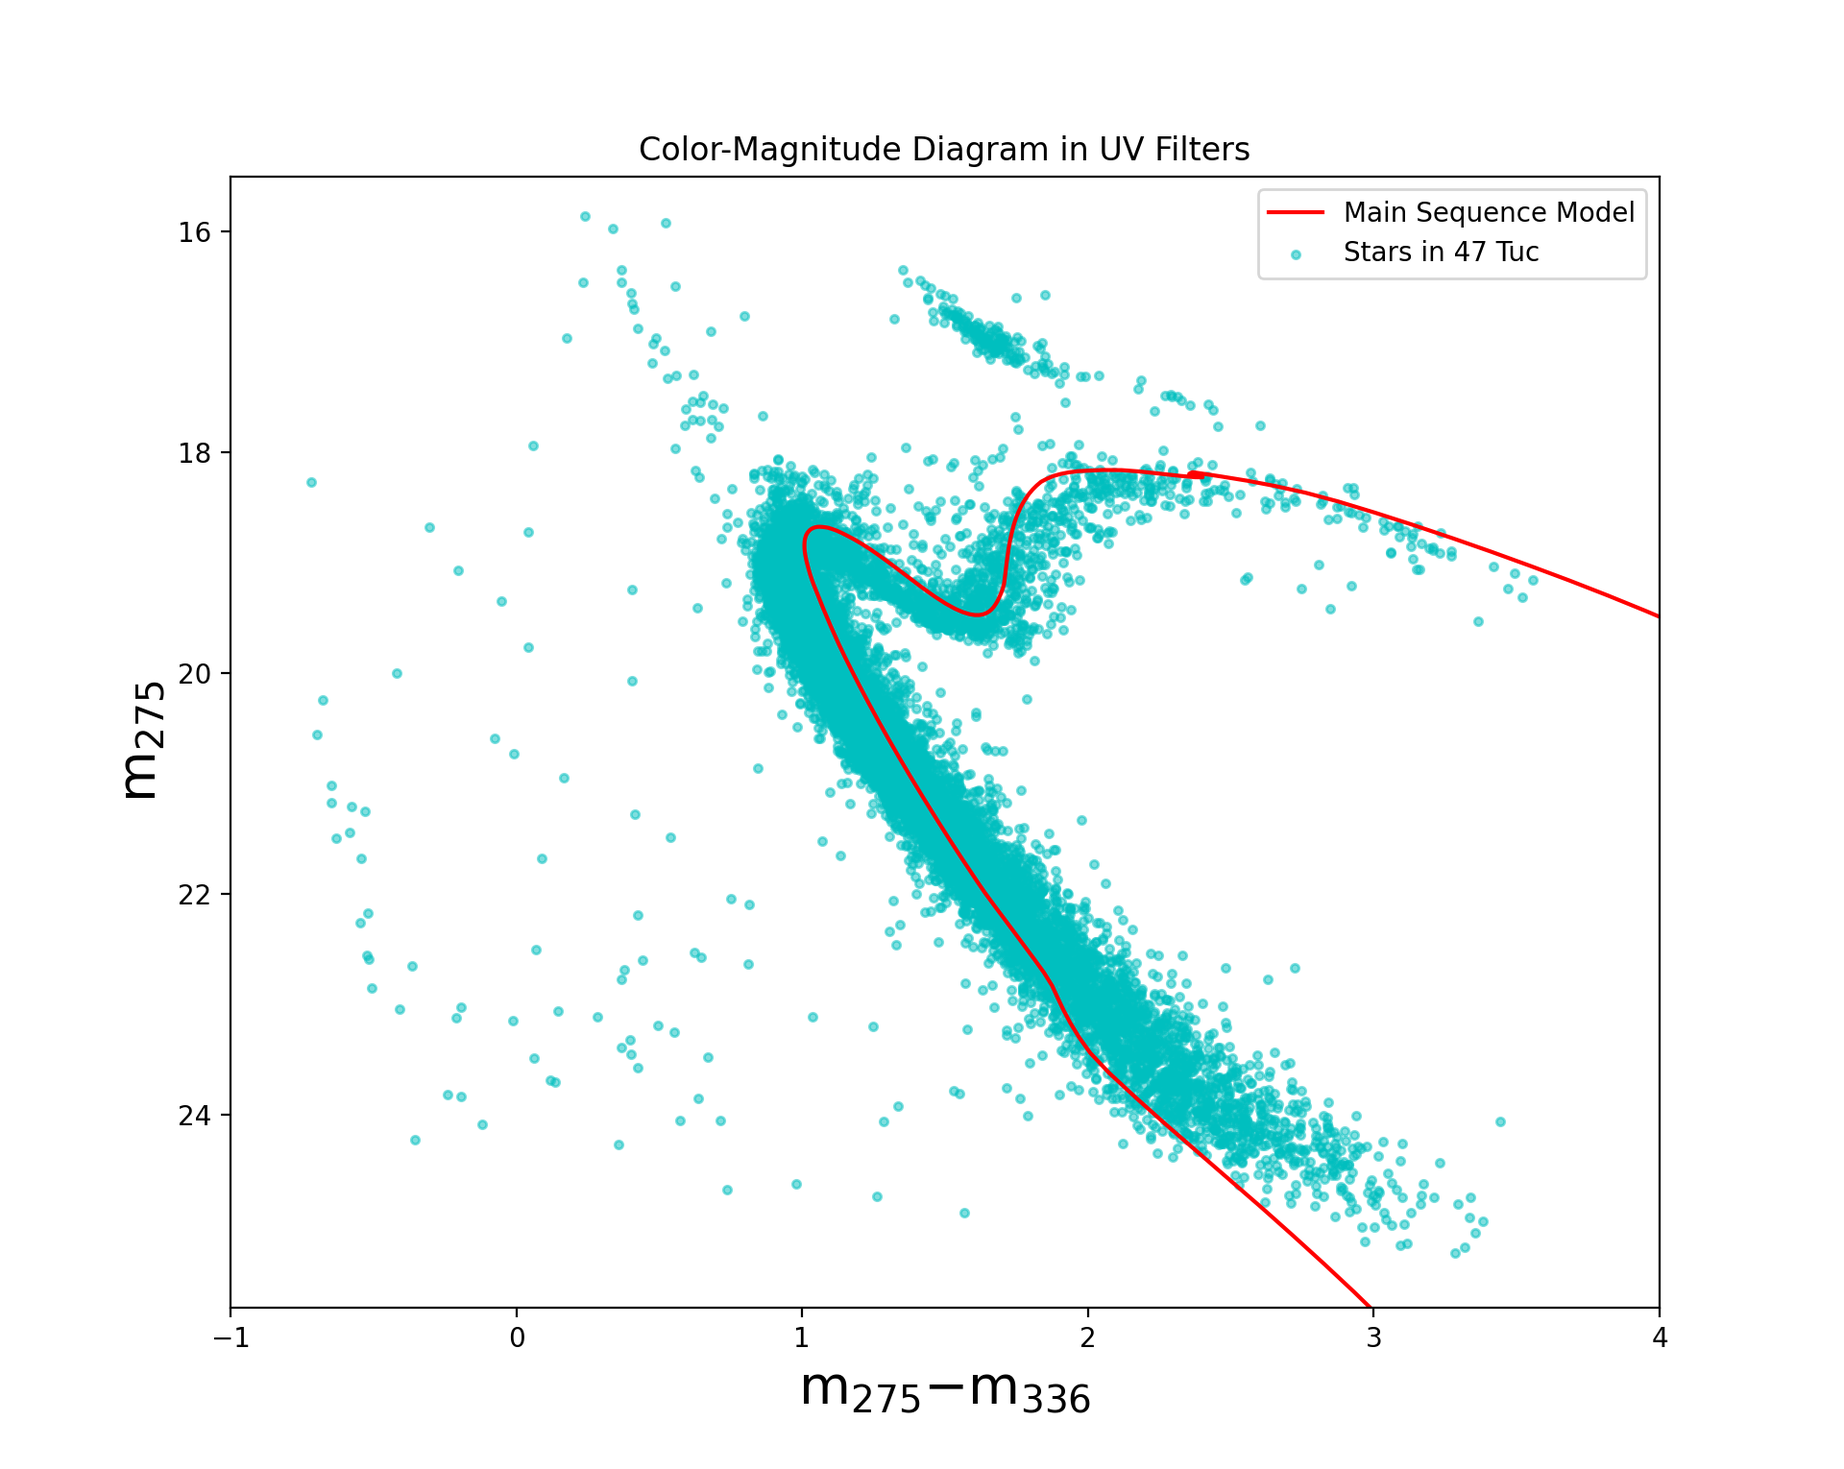
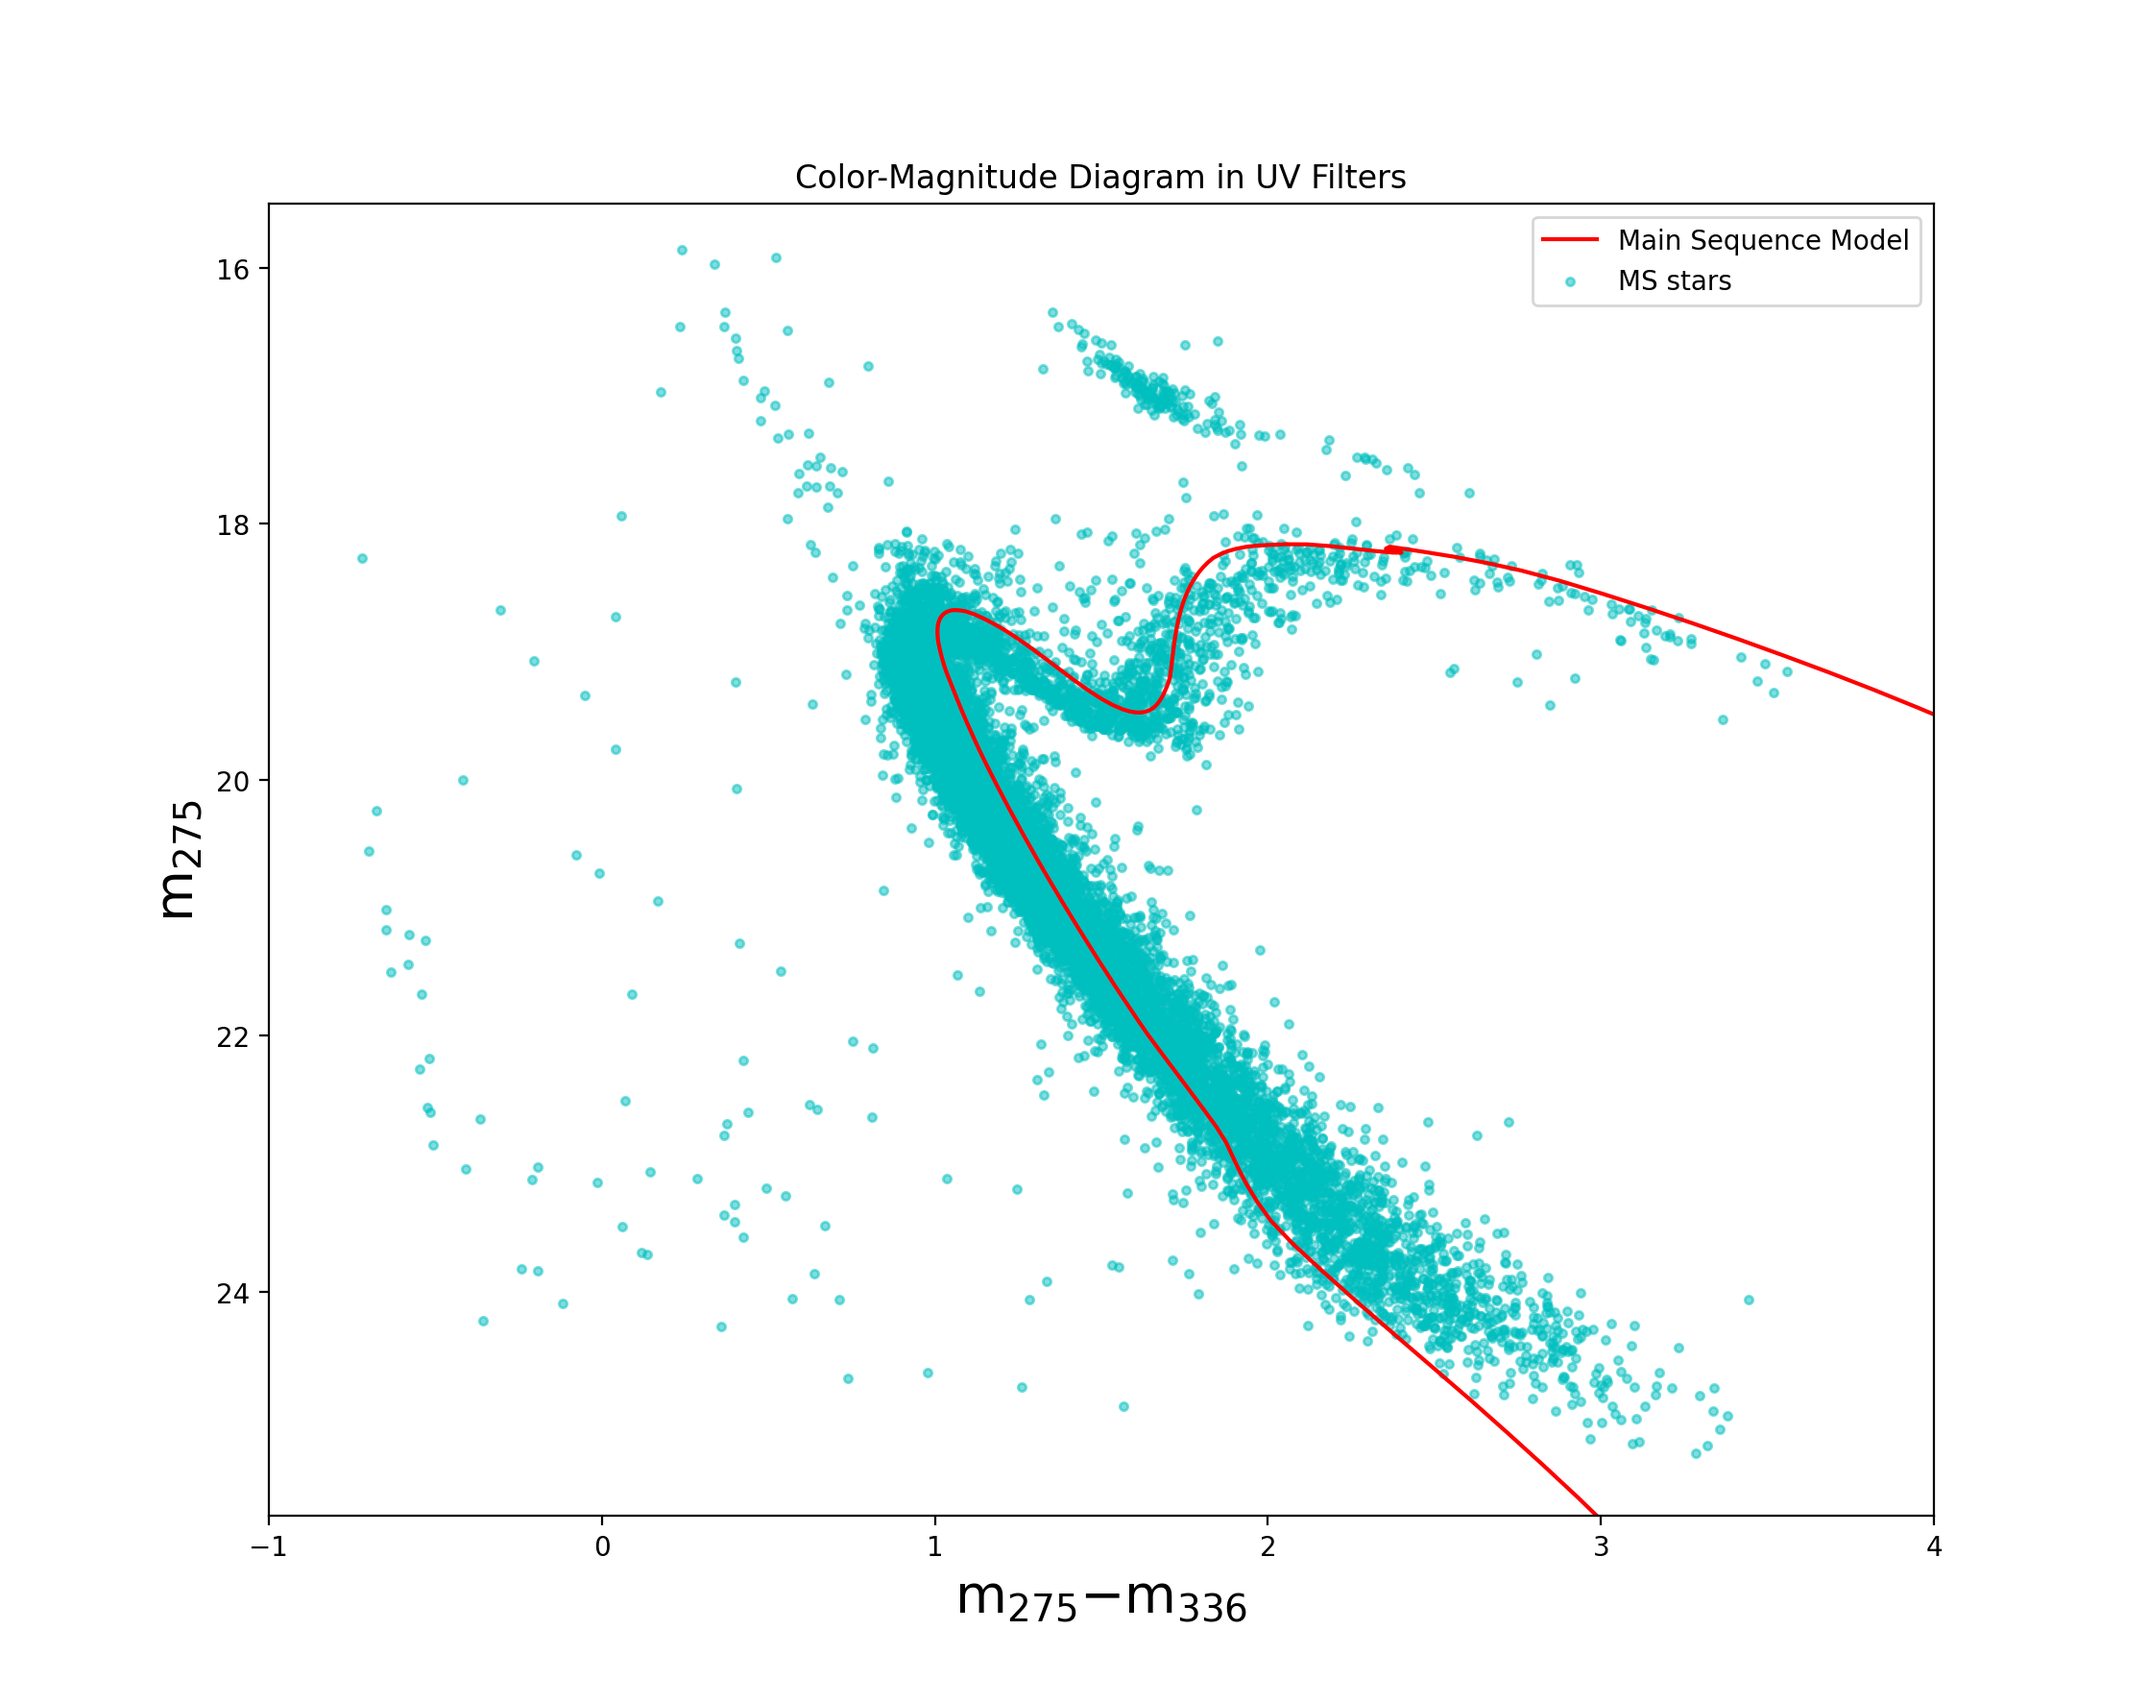
day 4

diff --git a/cap1_code.py b/cap1_code.py
@@ -52,11 +52,12 @@ iso_606 = fehm10afep2_ACSWF_points[:,10] +f606
 def hist_prob(x = mem_prob):
     short = [i for i in x if i > 0]
     plt.hist(short, bins = 100)
-    plt.axvline(50, color='k', linestyle='dashed', linewidth=1)
+    plt.axvline(50, color='k', linestyle='dashed', linewidth=1, label = '50% Probability')
     plt.title('Probability of Stars being in 47 Tuc')
-    plt.xlabel('Probability of Star Being a Member', fontsize=20)
-    plt.ylabel('Number of Stars', fontsize=20)
+    plt.xlabel('Probability of Star Being a Member', fontsize=15)
+    plt.ylabel('Number of Stars', fontsize=15)
     plt.yscale('log')
+    plt.legend()
     plt.show()
 
 def sep_members(df):
@@ -137,14 +138,13 @@ def cmd275(filter1 = df1['data_275'], filter2 = df1['data_336'], filter1_b = df2
 def cmd814(filter1 = df1['data_606'], filter2 = df1['data_814'], filter1_b = df2['data_606'], filter2_b = df2['data_814'], iso1 = iso_606, iso2 = iso_814):
     
     plt.clf()
+    #plt.scatter(filter1_b-filter2_b, filter2_b, color = 'grey', marker = '.', alpha = 0.5, label = 'Non-singular stars')
     plt.scatter(filter1-filter2, filter2, color= 'b', marker = '.', alpha = 0.5, label = 'MS stars')
-    #plt.scatter(filter1_b-filter2_b, filter2_b, color = 'k', marker = '.', alpha = 1, label = 'Non-singular stars')
-    
     plt.plot(iso1-iso2, iso2, color = 'r', label = 'Main Sequence model')
-    plt.axis([-4, 4, 8.25, 27.5])
+    plt.axis([-1.5, 3, 9, 25.5])
     plt.title('Color-Magnitude Diagram in Optical Filters')
-    plt.xlabel('m${_{606}}$\N{MINUS SIGN}m${_{814}}$' , fontsize=20)
-    plt.ylabel('m${_{814}}$', fontsize=20)
+    plt.xlabel('m${_{606}}$\N{MINUS SIGN}m${_{814}}$' , fontsize=15)
+    plt.ylabel('m${_{814}}$', fontsize=15)
     plt.gca().invert_yaxis()
     plt.legend()
     plt.show()
@@ -169,6 +169,9 @@ plt.clf()
 #cmd275(filter1 = ult_df['data_275'], filter2 = ult_df['data_336'])
 #cmd814(filter1 = ult_df['data_606'], filter2 = ult_df['data_814'])
 #binary_hist()
+#hist_prob()
+#cmd814()
+cmd275()
 '''
 plt.hist(ms, bins = 100)
 plt.yscale('log')
@@ -177,7 +180,7 @@ plt.ylabel('Amount of Stars')
 plt.show()
 print(stats.ttest_1samp(ms, 0 ))
 #print(df3)
-'''
+
 
 #0.001964187942785832, 0.0027211638632143086
 bs=bootstraps(x = ms)
@@ -189,9 +192,8 @@ plt.legend()
 plt.xlabel('Average from Samples')
 plt.ylabel('Number of Samples')
 plt.title('Bootstrapping')
-plt.show() 
+plt.show()
 
-'''
 mean, sigma = np.mean(mean_list), np.std(mean_list)
 inte = stats.norm.interval(0.95, loc=mean, scale=sigma)
 print(inte)
